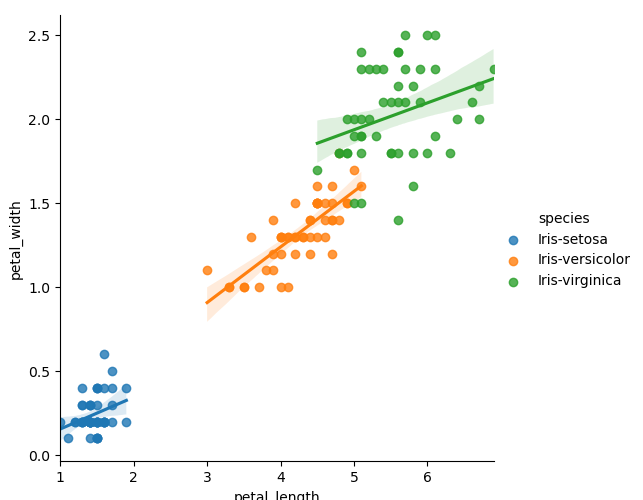
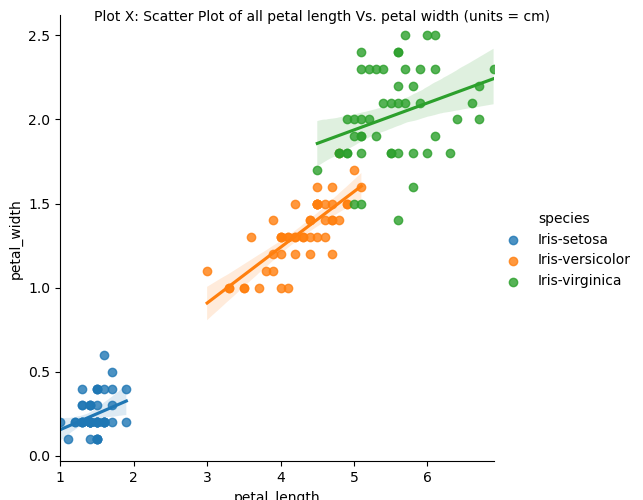
test

diff --git a/Project/analysis.py b/Project/analysis.py
@@ -175,8 +175,11 @@ scatter_plot()
 # Reference: https://seaborn.pydata.org/generated/seaborn.lmplot.html
 def lmplot(): 
     sns.lmplot(data=iris_df, x='petal_length', y='petal_width', hue = 'species')
-    plt.savefig('Images/' + 'lmplot' +'.png')
-    plt.show()
+    plt.suptitle('Plot X: Scatter Plot of all petal length Vs. petal width (units = cm)',fontsize = 10)
+
+    plt.savefig('Images/' + 'testing' +'.png')
+    plt.tight_layout()
+
 lmplot()
 #if __name__ == __main__:
     #pass
